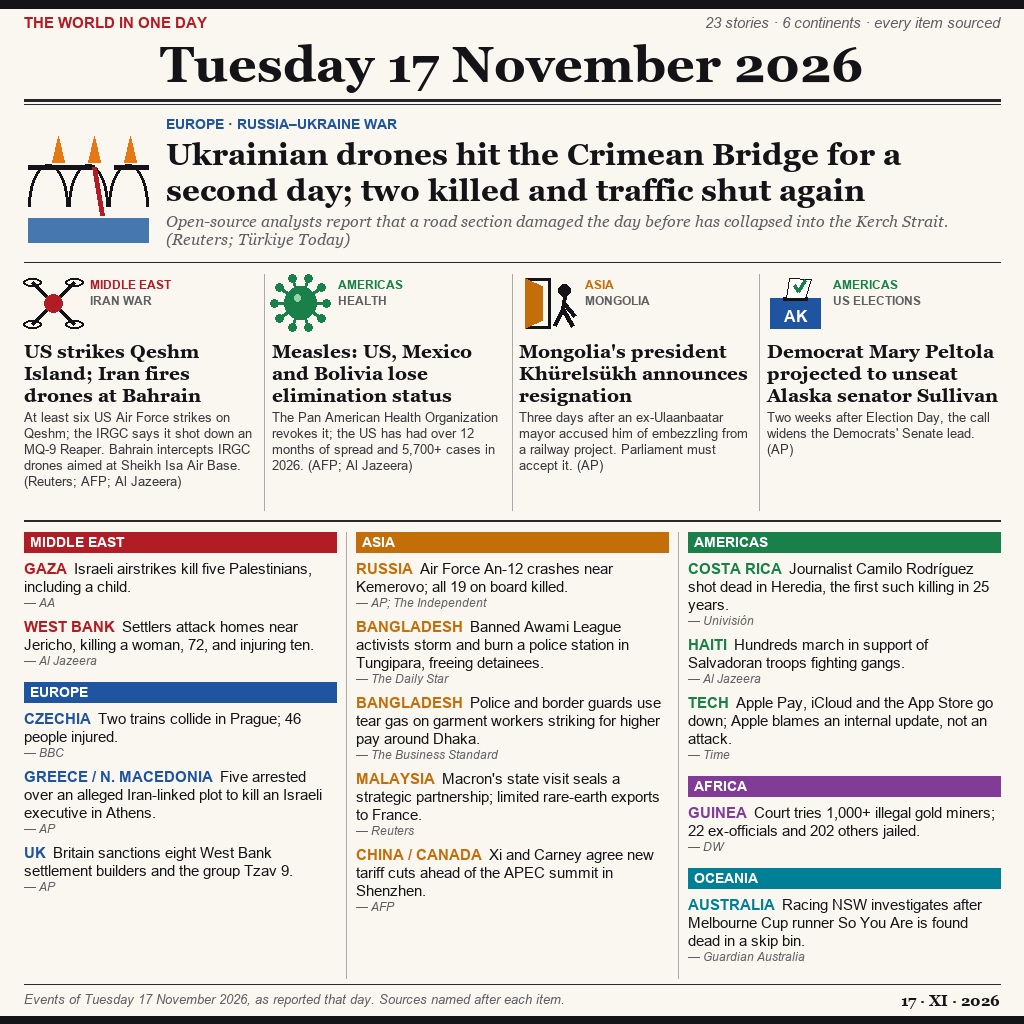
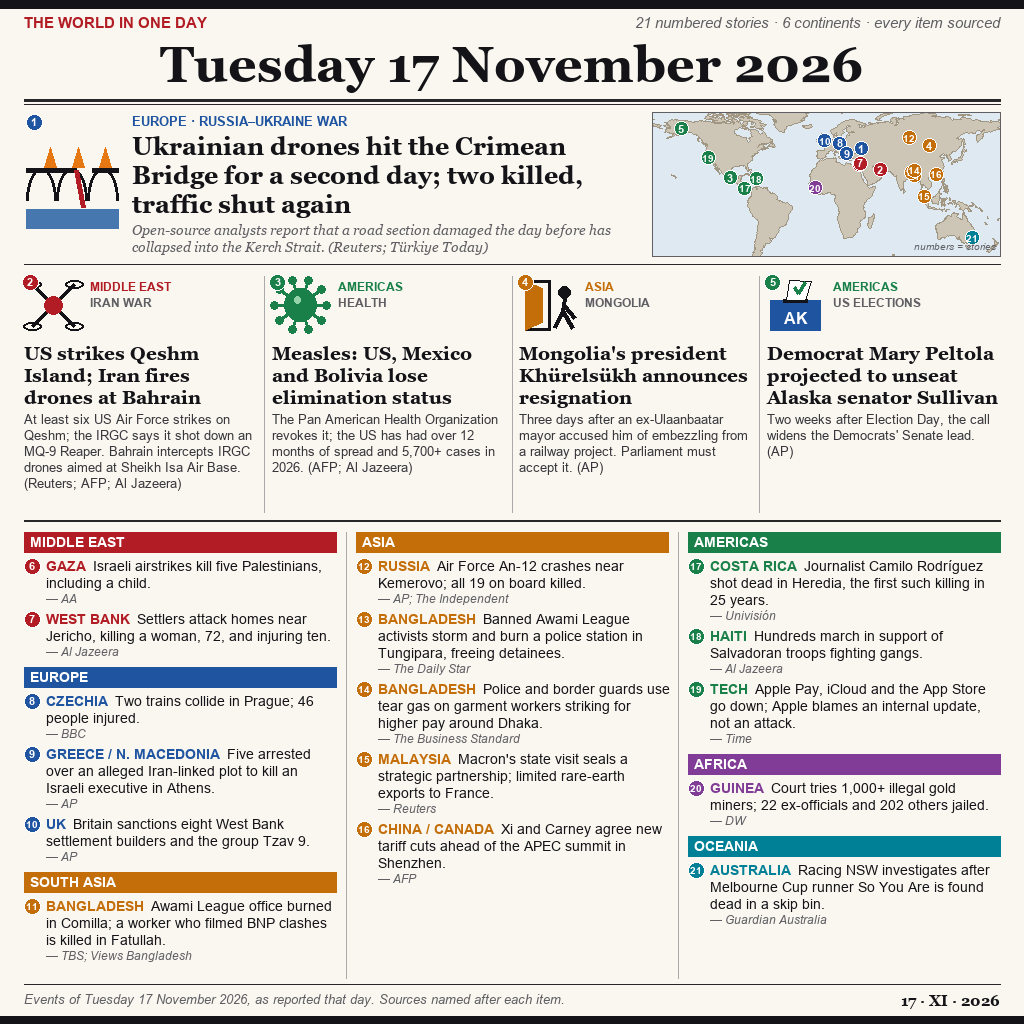
v2: world map with numbered pins, Bangladesh unrest item, accurate story count

diff --git a/render.py b/render.py
@@ -52,7 +52,7 @@ def para(x, y, text, f, width, fill=INK, lh=None):
 # ---------- masthead ----------
 d.rectangle([0, 0, W, 8], fill=INK)
 d.text((24, 14), "THE WORLD IN ONE DAY", font=font("arialbd.ttf", 15), fill=RED)
-d.text((W - 24, 14), "23 stories · 6 continents · every item sourced", font=font("ariali.ttf", 15), fill=GREY, anchor="ra")
+d.text((W - 24, 14), "21 numbered stories · 6 continents · every item sourced", font=font("ariali.ttf", 15), fill=GREY, anchor="ra")
 mast = font("georgiab.ttf", 50)
 d.text((W // 2, 36), "Tuesday 17 November 2026", font=mast, fill=INK, anchor="ma")
 d.line([24, 100, W - 24, 100], fill=RULE, width=3)
@@ -122,15 +122,52 @@ def icon_plane(x, y, s):
     d.line([x + 4, y + s - 4, x + s - 4, y + s - 4], fill=GREY, width=2)
 
 
+# ---------- numbered pins and the world map ----------
+import json, os
+PINS = []  # ((lon, lat), number, colour)
+LAND = os.environ.get("LAND_GEOJSON", "land.json")  # Natural Earth 1:110m land (public domain), not committed
+
+
+def badge(cx, cy, n, col, r=8):
+    d.ellipse([cx - r, cy - r, cx + r, cy + r], fill=col, outline="white", width=1)
+    d.text((cx, cy), str(n), font=font("arialbd.ttf", 10 if n > 9 else 11), fill="white", anchor="mm")
+
+
+MX0, MY0, MX1, MY1 = 652, 112, 1000, 256
+LAT_TOP, LAT_BOT = 78, -50
+
+
+def proj(lon, lat):
+    return (MX0 + (lon + 180) / 360 * (MX1 - MX0), MY0 + (LAT_TOP - lat) / (LAT_TOP - LAT_BOT) * (MY1 - MY0))
+
+
+def draw_map():
+    d.rectangle([MX0, MY0, MX1, MY1], fill=(222, 233, 242))
+    for feat in json.load(open(LAND, encoding="utf-8"))["features"]:
+        g = feat["geometry"]
+        polys = g["coordinates"] if g["type"] == "MultiPolygon" else [g["coordinates"]]
+        for poly in polys:
+            pts = [proj(lo, max(min(la, LAT_TOP), LAT_BOT)) for lo, la in poly[0]]
+            if len(pts) > 2:
+                d.polygon(pts, fill=(205, 198, 182), outline=(160, 150, 130))
+    d.rectangle([MX0, MY0, MX1, MY1], outline=GREY, width=1)
+    for (lon, lat), n, col in PINS:
+        x, y = proj(lon, lat)
+        badge(x, y, n, col, r=7)
+    d.text((MX1 - 4, MY1 - 3), "numbers = stories", font=font("ariali.ttf", 10), fill=GREY, anchor="rd")
+
+
 # ---------- lead story ----------
-y0 = 116
-icon_bridge(28, y0 + 6, 120)
-d.text((166, y0), "EUROPE · RUSSIA–UKRAINE WAR", font=font("arialbd.ttf", 14), fill=REG["EUROPE"])
-yy = para(166, y0 + 20, "Ukrainian drones hit the Crimean Bridge for a second day; two killed and traffic shut again",
-          font("georgiab.ttf", 31), W - 166 - 28, lh=36)
-para(166, yy + 4, "Open-source analysts report that a road section damaged the day before has collapsed into the Kerch Strait.  (Reuters; Türkiye Today)",
-     font("georgiai.ttf", 16), W - 166 - 28, fill=GREY)
-d.line([24, 262, W - 24, 262], fill=RULE, width=1)
+y0 = 114
+icon_bridge(26, y0 + 22, 92)
+badge(34, y0 + 8, 1, REG["EUROPE"])
+PINS.append(((36.5, 45.3), 1, REG["EUROPE"]))
+d.text((132, y0), "EUROPE · RUSSIA–UKRAINE WAR", font=font("arialbd.ttf", 13), fill=REG["EUROPE"])
+yy = para(132, y0 + 18, "Ukrainian drones hit the Crimean Bridge for a second day; two killed, traffic shut again",
+          font("georgiab.ttf", 25), 640 - 132, lh=29)
+para(132, yy + 3, "Open-source analysts report that a road section damaged the day before has collapsed into the Kerch Strait.  (Reuters; Türkiye Today)",
+     font("georgiai.ttf", 14), 640 - 132, fill=GREY, lh=17)
+d.line([24, 264, W - 24, 264], fill=RULE, width=1)
 
 # ---------- second tier: four boxes ----------
 tier = [
@@ -144,11 +181,14 @@ tier = [
      "Two weeks after Election Day, the call widens the Democrats' Senate lead.  (AP)"),
 ]
 bw = (W - 48 - 3 * 14) / 4
-by = 274
+by = 276
+TIER_LL = [(55.9, 26.8), (-99.1, 19.4), (106.9, 47.9), (-150.0, 63.0)]
 for i, (ic, kick, head, body) in enumerate(tier):
     bx = 24 + i * (bw + 14)
     ic(bx, by, 58)
     region = kick.split(" · ")[0]
+    badge(bx + 6, by + 6, i + 2, REG[region])
+    PINS.append((TIER_LL[i], i + 2, REG[region]))
     d.text((bx + 66, by + 4), kick.split(" · ")[0], font=font("arialbd.ttf", 12), fill=REG[region])
     d.text((bx + 66, by + 20), kick.split(" · ")[1], font=font("arialbd.ttf", 12), fill=GREY)
     yy = para(bx, by + 66, head, font("georgiab.ttf", 19), bw, lh=22)
@@ -157,63 +197,72 @@ for i, (ic, kick, head, body) in enumerate(tier):
         d.line([bx - 7, by, bx - 7, by + 236], fill=(170, 170, 170), width=1)
 d.line([24, 520, W - 24, 520], fill=RULE, width=2)
 
-# ---------- briefs by region ----------
+# ---------- briefs by region (numbered; the numbers match the map pins) ----------
 briefs = {
     "MIDDLE EAST": [
-        ("Gaza", "Israeli airstrikes kill five Palestinians, including a child.", "AA"),
-        ("West Bank", "Settlers attack homes near Jericho, killing a woman, 72, and injuring ten.", "Al Jazeera"),
+        ("Gaza", "Israeli airstrikes kill five Palestinians, including a child.", "AA", (34.4, 31.4)),
+        ("West Bank", "Settlers attack homes near Jericho, killing a woman, 72, and injuring ten.", "Al Jazeera", (35.4, 32.6)),
     ],
     "EUROPE": [
-        ("Czechia", "Two trains collide in Prague; 46 people injured.", "BBC"),
-        ("Greece / N. Macedonia", "Five arrested over an alleged Iran-linked plot to kill an Israeli executive in Athens.", "AP"),
-        ("UK", "Britain sanctions eight West Bank settlement builders and the group Tzav 9.", "AP"),
+        ("Czechia", "Two trains collide in Prague; 46 people injured.", "BBC", (14.4, 50.1)),
+        ("Greece / N. Macedonia", "Five arrested over an alleged Iran-linked plot to kill an Israeli executive in Athens.", "AP", (21.4, 41.0)),
+        ("UK", "Britain sanctions eight West Bank settlement builders and the group Tzav 9.", "AP", (-1.5, 52.5)),
+    ],
+    "SOUTH ASIA": [
+        ("Bangladesh", "Awami League office burned in Comilla; a worker who filmed BNP clashes is killed in Fatullah.", "TBS; Views Bangladesh", (91.2, 21.5)),
     ],
     "ASIA": [
-        ("Russia", "Air Force An-12 crashes near Kemerovo; all 19 on board killed.", "AP; The Independent"),
-        ("Bangladesh", "Banned Awami League activists storm and burn a police station in Tungipara, freeing detainees.", "The Daily Star"),
-        ("Bangladesh", "Police and border guards use tear gas on garment workers striking for higher pay around Dhaka.", "The Business Standard"),
-        ("Malaysia", "Macron's state visit seals a strategic partnership; limited rare-earth exports to France.", "Reuters"),
-        ("China / Canada", "Xi and Carney agree new tariff cuts ahead of the APEC summit in Shenzhen.", "AFP"),
+        ("Russia", "Air Force An-12 crashes near Kemerovo; all 19 on board killed.", "AP; The Independent", (86.1, 55.3)),
+        ("Bangladesh", "Banned Awami League activists storm and burn a police station in Tungipara, freeing detainees.", "The Daily Star", (88.0, 24.5)),
+        ("Bangladesh", "Police and border guards use tear gas on garment workers striking for higher pay around Dhaka.", "The Business Standard", (91.5, 26.0)),
+        ("Malaysia", "Macron's state visit seals a strategic partnership; limited rare-earth exports to France.", "Reuters", (101.7, 3.1)),
+        ("China / Canada", "Xi and Carney agree new tariff cuts ahead of the APEC summit in Shenzhen.", "AFP", (114.1, 22.5)),
     ],
     "AMERICAS": [
-        ("Costa Rica", "Journalist Camilo Rodríguez shot dead in Heredia, the first such killing in 25 years.", "Univisión"),
-        ("Haiti", "Hundreds march in support of Salvadoran troops fighting gangs.", "Al Jazeera"),
-        ("Tech", "Apple Pay, iCloud and the App Store go down; Apple blames an internal update, not an attack.", "Time"),
+        ("Costa Rica", "Journalist Camilo Rodríguez shot dead in Heredia, the first such killing in 25 years.", "Univisión", (-84.1, 10.0)),
+        ("Haiti", "Hundreds march in support of Salvadoran troops fighting gangs.", "Al Jazeera", (-72.3, 18.5)),
+        ("Tech", "Apple Pay, iCloud and the App Store go down; Apple blames an internal update, not an attack.", "Time", (-122.0, 37.3)),
     ],
     "AFRICA": [
-        ("Guinea", "Court tries 1,000+ illegal gold miners; 22 ex-officials and 202 others jailed.", "DW"),
+        ("Guinea", "Court tries 1,000+ illegal gold miners; 22 ex-officials and 202 others jailed.", "DW", (-11.0, 10.5)),
     ],
     "OCEANIA": [
-        ("Australia", "Racing NSW investigates after Melbourne Cup runner So You Are is found dead in a skip bin.", "Guardian Australia"),
+        ("Australia", "Racing NSW investigates after Melbourne Cup runner So You Are is found dead in a skip bin.", "Guardian Australia", (151.2, -33.9)),
     ],
 }
-cols = [["MIDDLE EAST", "EUROPE"], ["ASIA"], ["AMERICAS", "AFRICA", "OCEANIA"]]
+COLOR = dict(REG, **{"SOUTH ASIA": REG["ASIA"]})
+cols = [["MIDDLE EAST", "EUROPE", "SOUTH ASIA"], ["ASIA"], ["AMERICAS", "AFRICA", "OCEANIA"]]
 cw = (W - 48 - 2 * 20) / 3
-bf, bb, sf = font("arialbd.ttf", 15), font("arial.ttf", 15), font("ariali.ttf", 12)
+bf, bb, sf = font("arialbd.ttf", 14), font("arial.ttf", 14), font("ariali.ttf", 12)
+IND = 22
+num = 6
 for ci, regions in enumerate(cols):
     x = 24 + ci * (cw + 20)
     y = 532
     for r in regions:
-        d.rectangle([x, y, x + cw, y + 20], fill=REG[r])
+        d.rectangle([x, y, x + cw, y + 20], fill=COLOR[r])
         d.text((x + 6, y + 2), r, font=font("arialbd.ttf", 14), fill="white")
-        y += 28
-        for place, text, src in briefs[r]:
+        y += 26
+        for place, text, src, ll in briefs[r]:
+            badge(x + 8, y + 8, num, COLOR[r])
+            PINS.append((ll, num, COLOR[r]))
+            num += 1
             first = place.upper() + " "
-            lines = wrap(first + text, bb, cw - 4)
-            # draw first line with bold place label
-            d.text((x, y), first, font=bf, fill=REG[r])
+            lines = wrap(first + text, bb, cw - IND - 2)
+            d.text((x + IND, y), first, font=bf, fill=COLOR[r])
             off = d.textlength(first, font=bf) + 3
-            rest = lines[0][len(first):]
-            d.text((x + off, y), rest, font=bb, fill=INK)
-            y += 18
+            d.text((x + IND + off, y), lines[0][len(first):], font=bb, fill=INK)
+            y += 17
             for ln in lines[1:]:
-                d.text((x, y), ln, font=bb, fill=INK)
-                y += 18
-            d.text((x, y), "— " + src, font=sf, fill=GREY)
-            y += 22
-        y += 6
+                d.text((x + IND, y), ln, font=bb, fill=INK)
+                y += 17
+            d.text((x + IND, y), "— " + src, font=sf, fill=GREY)
+            y += 19
+        y += 3
     if ci:
         d.line([x - 10, 532, x - 10, 978], fill=(170, 170, 170), width=1)
+
+draw_map()
 
 # ---------- footer ----------
 d.line([24, 984, W - 24, 984], fill=RULE, width=1)

diff --git a/README.md b/README.md
@@ -4,7 +4,7 @@
 [![rank](https://make.fun/badge/news-image-20261117/Andy-6969/news-1117-world-front/rank.svg)](https://make.fun/bounty/news-image-20261117/leaderboard?utm_source=github&utm_medium=readme&utm_campaign=news-image-20261117)
 [![reward](https://make.fun/badge/news-image-20261117/Andy-6969/news-1117-world-front/reward.svg)](https://make.fun/bounty/news-image-20261117?utm_source=github&utm_medium=readme&utm_campaign=news-image-20261117)
 
-One front page for Tuesday 17 November 2026: 23 world stories from six continents, each with its source. The lead is the Crimean Bridge strike, followed by US strikes on Qeshm and Iranian drones at Bahrain, measles elimination status revoked for the US, Mexico and Bolivia, Mongolia's president resigning, and Alaska's Senate result. Short items follow by region. Every item comes from Wikipedia's Current events portal for 17 November 2026 and names the outlet it cites. `render.py` (Pillow) draws `entry.png`, and `main.ts` copies it to `/output/entry.png`.
+One front page for Tuesday 17 November 2026: 21 numbered world stories from six continents, each with its source and a pin on a world map (Natural Earth 1:110m land, public domain, read from LAND_GEOJSON and not committed). The lead is the Crimean Bridge strike, followed by US strikes on Qeshm and Iranian drones at Bahrain, measles elimination status revoked for the US, Mexico and Bolivia, Mongolia's president resigning, and Alaska's Senate result. Short items follow by region. Every item comes from Wikipedia's Current events portal for 17 November 2026 and names the outlet it cites. `render.py` (Pillow) draws `entry.png`, and `main.ts` copies it to `/output/entry.png`.
 
 ## Run it
 
